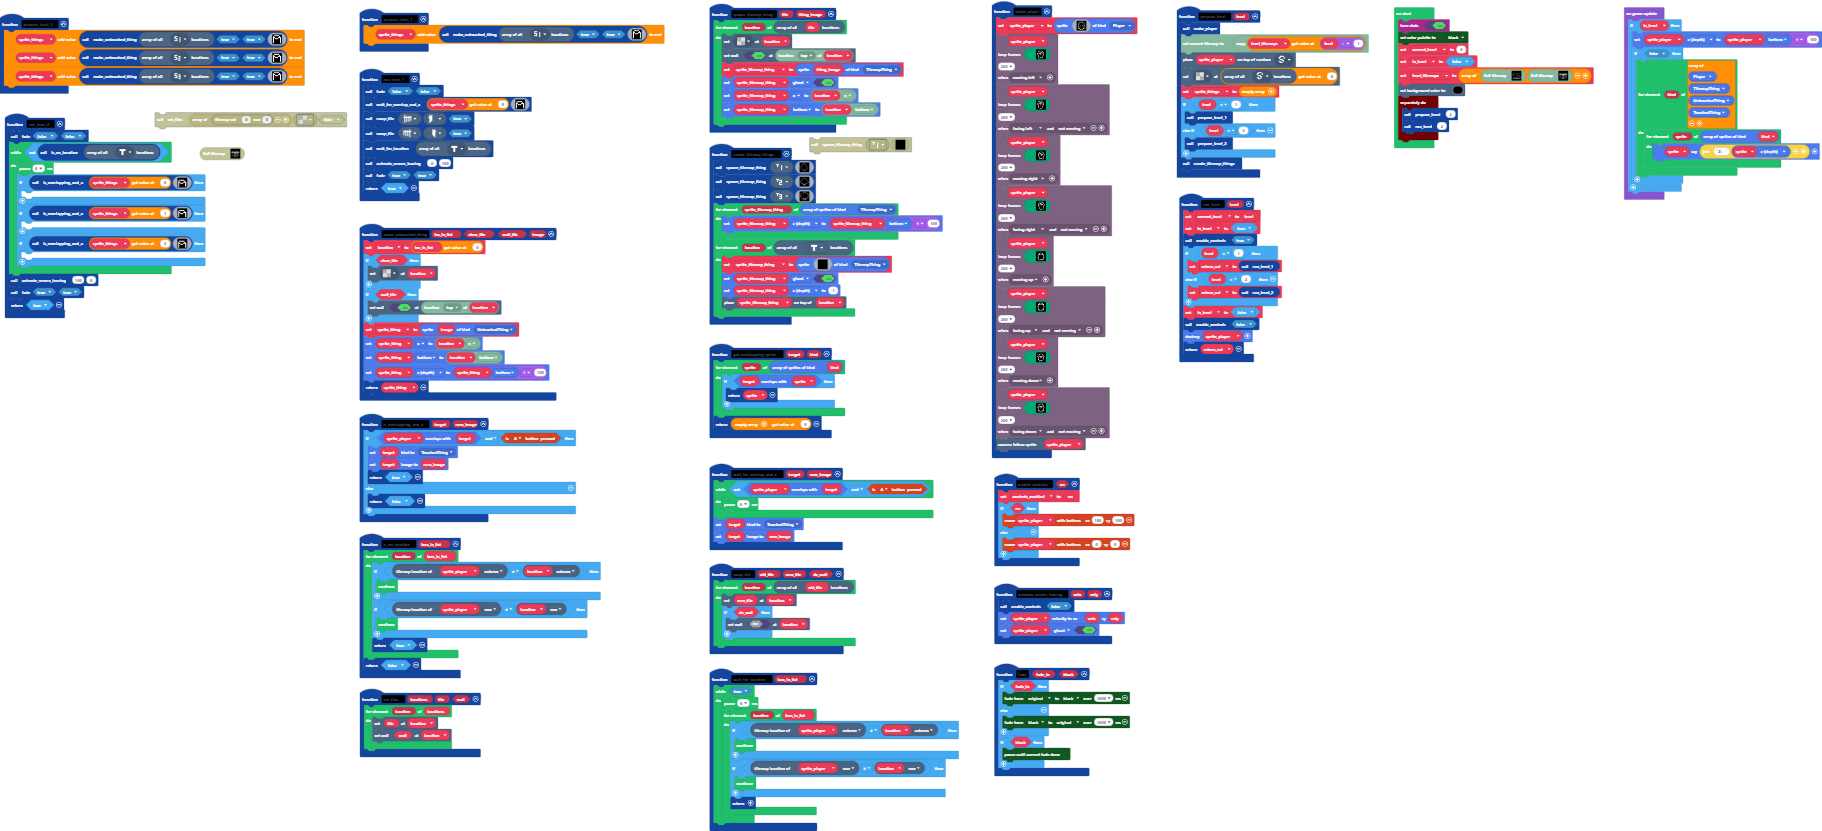
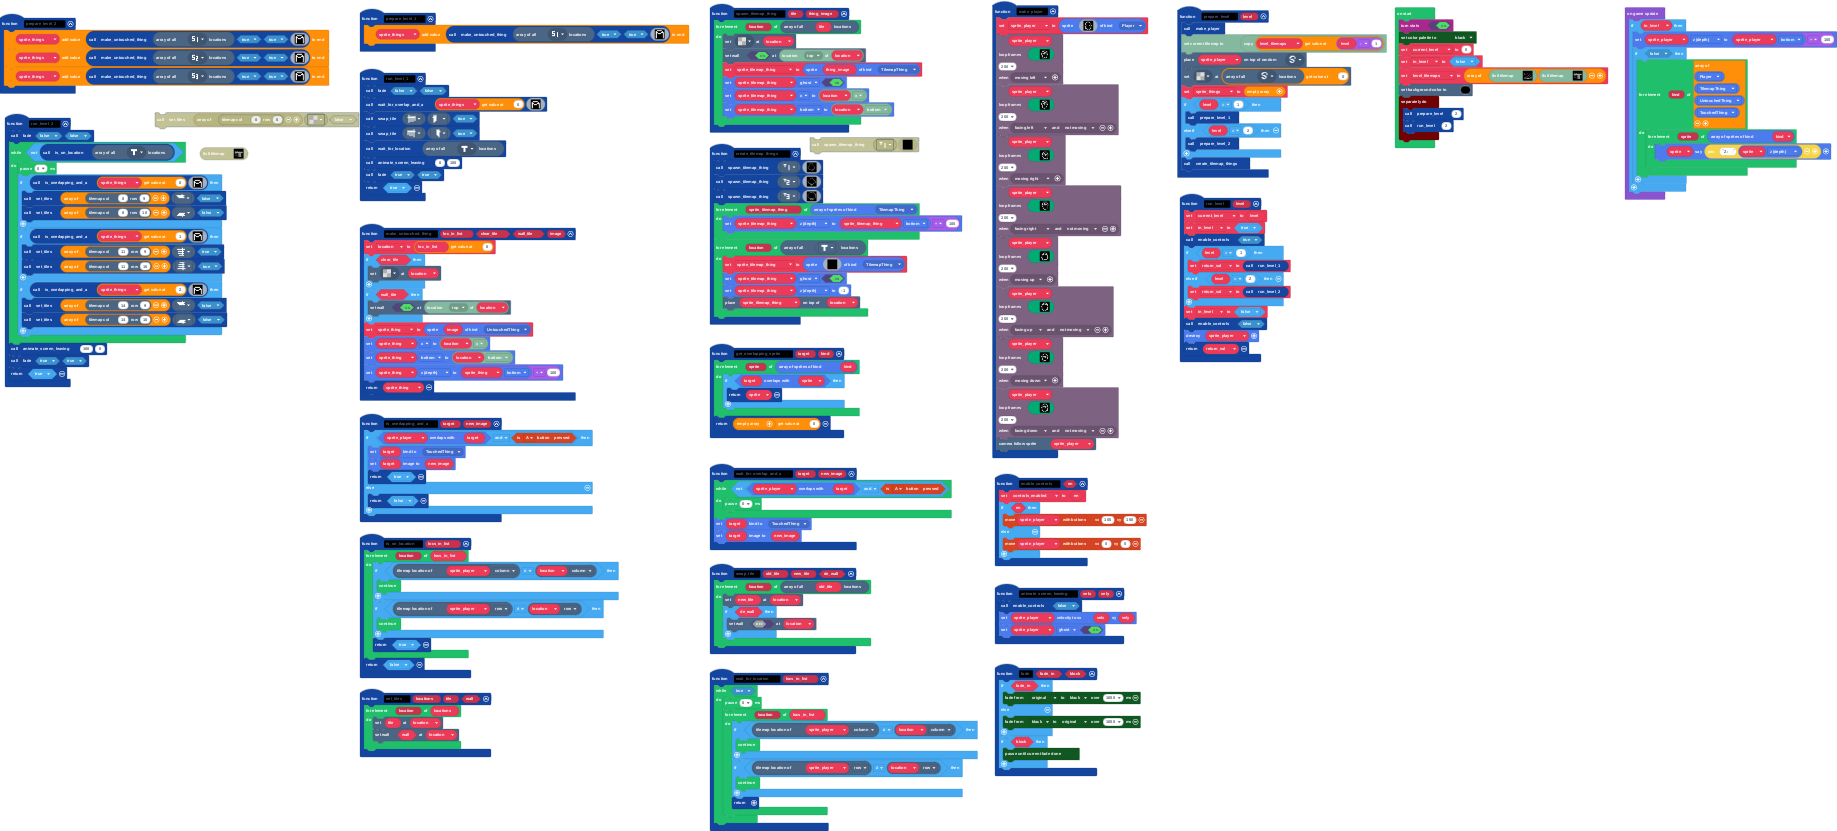
Finish level 2

diff --git a/tilemap.g.ts b/tilemap.g.ts
@@ -38,6 +38,14 @@ namespace myTiles {
     export const tile18 = image.ofBuffer(hex``);
     //% fixedInstance jres blockIdentity=images._tile
     export const tile16 = image.ofBuffer(hex``);
+    //% fixedInstance jres blockIdentity=images._tile
+    export const tile17 = image.ofBuffer(hex``);
+    //% fixedInstance jres blockIdentity=images._tile
+    export const tile19 = image.ofBuffer(hex``);
+    //% fixedInstance jres blockIdentity=images._tile
+    export const tile20 = image.ofBuffer(hex``);
+    //% fixedInstance jres blockIdentity=images._tile
+    export const tile21 = image.ofBuffer(hex``);
 
     helpers._registerFactory("tilemap", function(name: string) {
         switch(helpers.stringTrim(name)) {
@@ -145,24 +153,6 @@ namespace myTiles {
 2 2 2 2 2 2 2 2 2 2 2 2 2 2 2 2 2 2 2 2 
 . . . . . . . . . . . . . . . . . . . . 
 `, [myTiles.transparency8,myTiles.tile1,myTiles.tile2,myTiles.tile3,myTiles.tile4,myTiles.tile5,myTiles.tile7,myTiles.tile8,myTiles.tile9,myTiles.tile10,myTiles.tile13,myTiles.tile18], TileScale.Eight);
-            case "level_2":
[1 lines of base64/hex data omitted]
-. . . . . . . . . . . . . . . . . . . . 
-. . . . . . . . . . . . . . . . . . . . 
-. . . . . . . . . . . . . . . . . . . . 
-. . . . . . . . . . . . . . . . . . . . 
-2 2 2 2 2 2 2 2 2 2 2 2 2 2 . 2 2 2 2 2 
-. . . . . . . . 2 . . 2 . . 2 . . . . . 
-. . . . . . . . 2 . . 2 . . 2 . . . . . 
-. . . . . . . . 2 . . 2 . . 2 . . . . . 
-. . . . . . . . 2 . . 2 . . 2 . . . . . 
-. . . . . . . . . . . . . . . . . . . . 
-. . . . . . . . . . . . . . . . . . . . 
-. . . . . . . . 2 . . 2 . . 2 . . . . . 
-. . . . . . . . 2 . . 2 . . 2 . . . . . 
-. . . . . . . . 2 . . 2 . . 2 . . . . . 
-. . . . . . . . 2 . . 2 . . 2 . . . . . 
-`, [myTiles.transparency8,myTiles.tile1,myTiles.tile3,myTiles.tile2,myTiles.tile5,myTiles.tile8,myTiles.tile9,myTiles.tile10,myTiles.tile7,myTiles.tile14,myTiles.tile15,myTiles.tile16,myTiles.tile18,myTiles.tile13], TileScale.Eight);
             case "level8":
[1 lines of base64/hex data omitted]
 . . . . . . . . . . . . . . . . . . . . 
@@ -181,6 +171,24 @@ namespace myTiles {
 . . . . . . . . . . . . . . . . . . . . 
 . . . . . . . . . . . . . . . . . . . . 
 `, [myTiles.transparency8], TileScale.Eight);
+            case "level_2":
[1 lines of base64/hex data omitted]
+. . . . . . . . . . . . . . . . . . . . 
+. . . . . . . . . . . . . . . . . . . . 
+. . . . . . . . . . . . . . . . . . . . 
+. . . . . . . . . . . . . . . . . . . . 
+2 2 2 2 2 2 2 2 2 2 2 2 2 2 . 2 2 2 2 2 
+. . . . . . . . 2 . . 2 . . 2 . . . . . 
+. . . . . . . . 2 . . 2 . . 2 . . . . . 
+. . . . . . . . 2 . . 2 . . 2 . . . . . 
+. . . . . . . . 2 . . 2 . . 2 . . . . . 
+. . . . . . . . 2 . . . . . 2 . . . . . 
+. . . . . . . . 2 . . . . . 2 . . . . . 
+. . . . . . . . 2 . . 2 . . 2 . . . . . 
+. . . . . . . . 2 . . 2 . . 2 . . . . . 
+. . . . . . . . 2 . . 2 . . 2 . . . . . 
+. . . . . . . . 2 . . 2 . . 2 . . . . . 
+`, [myTiles.transparency8,myTiles.tile1,myTiles.tile3,myTiles.tile2,myTiles.tile5,myTiles.tile8,myTiles.tile9,myTiles.tile10,myTiles.tile7,myTiles.tile14,myTiles.tile15,myTiles.tile16,myTiles.tile18,myTiles.tile13,myTiles.tile17,myTiles.tile19,myTiles.tile20,myTiles.tile21], TileScale.Eight);
         }
         return null;
     })
@@ -223,6 +231,14 @@ namespace myTiles {
             case "tile18":return tile18;
             case "left_facing_fence":
             case "tile16":return tile16;
+            case "left_left_fence_gate_closed":
+            case "tile17":return tile17;
+            case "right_left_fence_gate_closed":
+            case "tile19":return tile19;
+            case "left_left_fence_gate_open":
+            case "tile20":return tile20;
+            case "right_left_fence_gate_open":
+            case "tile21":return tile21;
         }
         return null;
     })

diff --git a/main.ts b/main.ts
@@ -183,13 +183,16 @@ function run_level_2 () {
     while (!(is_on_location(tiles.getTilesByType(assets.tile`tile_target`)))) {
         pause(0)
         if (is_overlapping_and_a(sprite_things[0], assets.image`stump_1_pressed`)) {
-        	
+            set_tiles([tiles.getTileLocation(8, 9)], assets.tile`left_left_fence_gate_open`, false)
+            set_tiles([tiles.getTileLocation(8, 10)], assets.tile`right_left_fence_gate_open`, false)
         }
         if (is_overlapping_and_a(sprite_things[1], assets.image`stump_1_pressed`)) {
-        	
+            set_tiles([tiles.getTileLocation(11, 9)], assets.tile`left_left_fence_gate_closed`, true)
+            set_tiles([tiles.getTileLocation(11, 10)], assets.tile`right_left_fence_gate_closed`, true)
         }
         if (is_overlapping_and_a(sprite_things[2], assets.image`stump_1_pressed`)) {
-        	
+            set_tiles([tiles.getTileLocation(14, 9)], assets.tile`left_left_fence_gate_open`, false)
+            set_tiles([tiles.getTileLocation(14, 10)], assets.tile`right_left_fence_gate_open`, false)
         }
     }
     animate_screen_leaving(100, 0)
